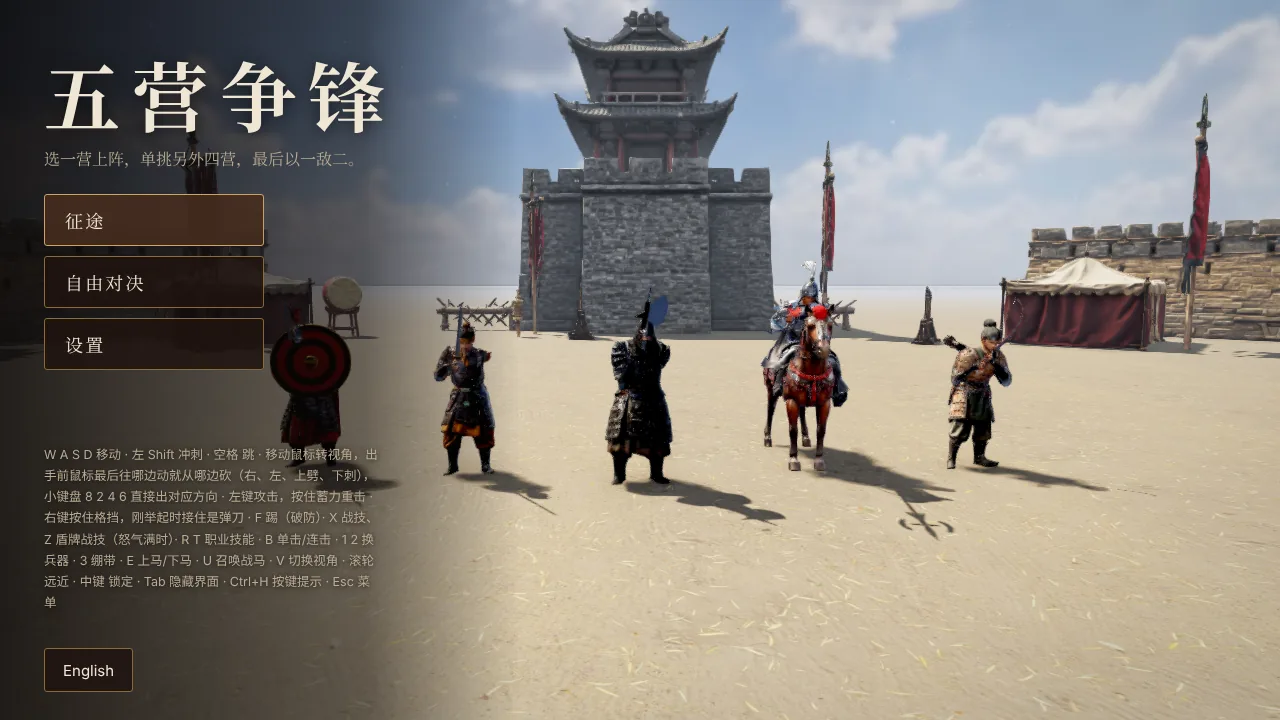
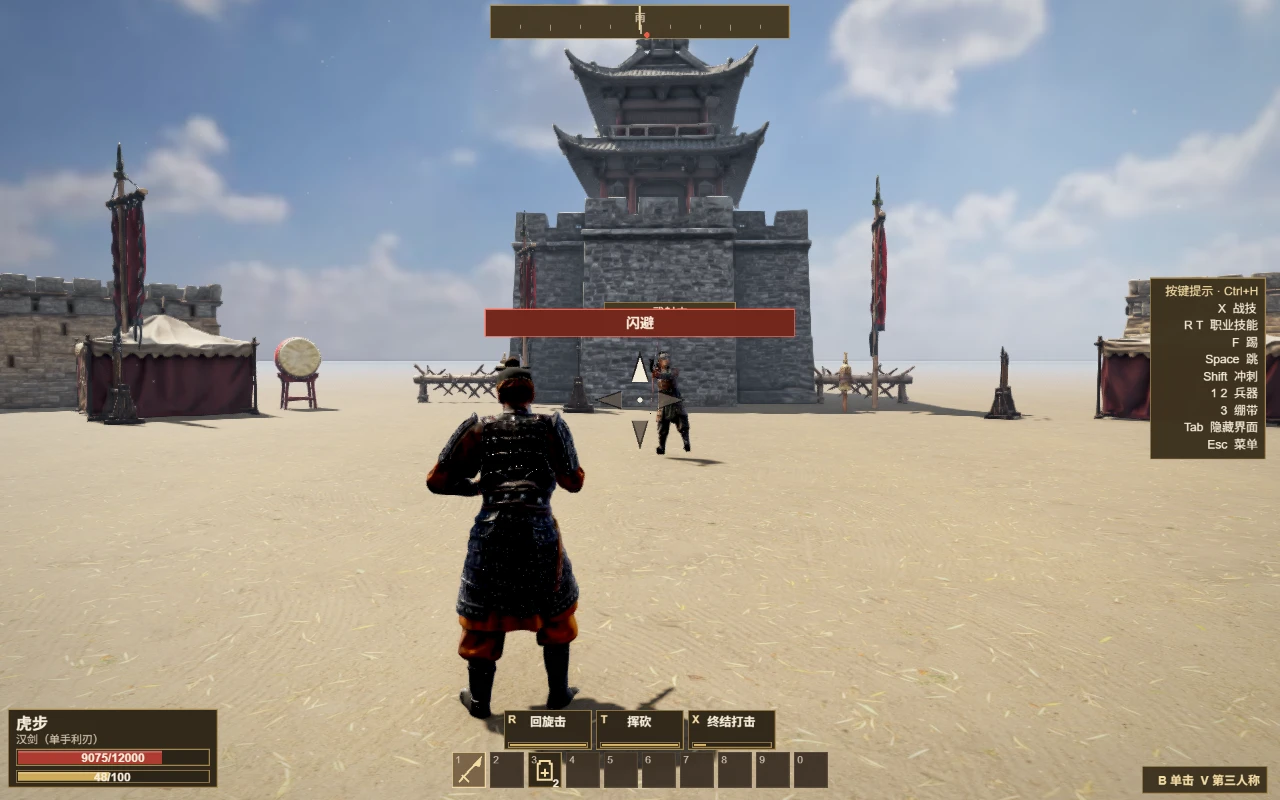
Showcase FiveRegiments native UI and verified captures

diff --git a/showcase/games.js b/showcase/games.js
@@ -83,14 +83,19 @@ export const GAMES = [
   {
     id: 'regiments', folder: 'FiveRegiments', kind: '3d',
     scenes: [
-      { zh: "王城宫前 · 黄昏以一敌二：陷阵营抡起长斧，迎着骑马冲来的银翎卫，武射史在后", en: "Before the palace · One against two at dusk: the Berserker Battalion raises his long axe at the charging Silver Wing Guard, the Archer behind" },
-      { zh: "竹林古道 · 薄雾里银翎卫骑马冲向武射史", en: "Bamboo path · The Silver Wing Guard rides at the Archer through the mist" },
-      { zh: "卷首 · 五营列阵县城校场", en: "Title · The five regiments drawn up on the county drill ground" },
+      { zh: "卷首 · 五营挺拔列阵与漆木铜饰原生菜单", en: "Title · Five upright regiments and the native lacquer-and-bronze menu" },
+      { zh: "竹林古道 · 雾、竹影与原生战斗 HUD", en: "Bamboo path · Layered fog, bamboo shadows and the native combat HUD" },
+      { zh: "县城校场 · PC 实机战斗画面", en: "County drill ground · Live PC combat view" },
     ],
     zh: "五营争锋", en: "Five Regiments",
     genre: { zh: "第三人称冷兵器对决", en: "Third-person cold-steel duels" },
     summary: { zh: "从羽林卫、虎步、陷阵营、银翎卫、武射史里选一营，技能、天赋、战技和生命值按原作的公告与物品面板，伤害公式按武器和护甲面板推算，一刀一成血、打得有来有回。在校场、桃林、竹林、雪原单挑另外四营，最后在王城宫前以一敌二；银翎卫骑马作战、马上架枪。", en: "Choose one of five regiments; skills, talents, weapon arts and health follow the original's notes and item cards, and a damage formula worked out from the weapon and armour cards makes each blow take about a tenth of a man's health, so fights go back and forth. Beat the other four, then two at once before the palace; the Silver Wing Guard fights from the saddle and couches his ji." },
     features: [
+      {
+        title: { zh: "World3D 原生界面与输入", en: "Native Play interface over World3D" },
+        description: { zh: "透明原生 UI 与 3D 共用帧时钟，具名控件和多屏布局支持键鼠、触屏及手柄输入。", en: "Transparent native UI and 3D share a frame clock; named controls and screen-aware layouts support mouse, keys, touch and gamepad." },
+        source: 'src/screens.mjs',
+      },
       {
         title: { zh: "动作捕捉与反向动力学", en: "Motion capture and inverse kinematics" },
         description: { zh: "每帧把动作捕捉姿态写进骨骼，再叠加反向动力学和腰身扭转；骑手按战马脊骨的位置坐稳。", en: "Each frame the captured pose goes into the bones with inverse kinematics and a waist twist on top; riders sit where the horse’s spine puts the saddle." },
@@ -105,11 +110,6 @@ export const GAMES = [
         title: { zh: "刀光、火花与动态几何", en: "Blade trails, sparks and live geometry" },
         description: { zh: "刀光拖尾和剑气是每帧改写的动态几何；火花、血雾、落花和飘雪由 CPU 与 GPU 粒子发出。", en: "Blade trails and flying cuts are geometry rewritten every frame; sparks, blood mist, petals and snow come from CPU and GPU particles." },
         source: 'src/view/effects.mjs',
-      },
-      {
-        title: { zh: "读刀的对战规则", en: "Fight rules that read the blade" },
-        description: { zh: "刀路、格挡和伤害公式独立于画面，电脑对手按你出刀的方向应对。", en: "Lines of attack, guards and the damage formula live apart from the picture, and the computer answers the line you cut along." },
-        source: 'src/sim/fight.mjs',
       },
       {
         title: { zh: "三档 glTF 模型", en: "glTF models in three sets" },

diff --git a/showcase/capabilities.js b/showcase/capabilities.js
@@ -42,6 +42,10 @@ export const MATRIX = {
      "file": "FivePhases/src/main.mjs"
     },
     {
+     "game": "FiveRegiments",
+     "file": "FiveRegiments/src/hud.mjs"
+    },
+    {
      "game": "InquestScrolls",
      "file": "InquestScrolls/src/view/pictures.mjs"
     },
@@ -367,6 +371,10 @@ export const MATRIX = {
    "label": "@egret/engine/ui",
    "games": [
     {
+     "game": "FiveRegiments",
+     "file": "FiveRegiments/src/hud.mjs"
+    },
+    {
      "game": "FPS",
      "file": "FPS/src/ui/hud.mjs"
     },
@@ -453,6 +461,10 @@ export const MATRIX = {
      "file": "FivePhases/src/ui/hud.mjs"
     },
     {
+     "game": "FiveRegiments",
+     "file": "FiveRegiments/src/screens.mjs"
+    },
+    {
      "game": "InquestScrolls",
      "file": "InquestScrolls/src/view/type.mjs"
     },
@@ -482,6 +494,10 @@ export const MATRIX = {
     {
      "game": "FivePhases",
      "file": "FivePhases/src/ui/hud.mjs"
+    },
+    {
+     "game": "FiveRegiments",
+     "file": "FiveRegiments/src/screens.mjs"
     },
     {
      "game": "InquestScrolls",
@@ -1106,6 +1122,10 @@ export const MATRIX = {
      "file": "FivePhases/src/main.mjs"
     },
     {
+     "game": "FiveRegiments",
+     "file": "FiveRegiments/src/main.mjs"
+    },
+    {
      "game": "FPS",
      "file": "FPS/src/main.mjs"
     },
@@ -1193,6 +1213,10 @@ export const MATRIX = {
      "file": "FivePhases/src/main.mjs"
     },
     {
+     "game": "FiveRegiments",
+     "file": "FiveRegiments/src/main.mjs"
+    },
+    {
      "game": "FPS",
      "file": "FPS/src/main.mjs"
     },
@@ -1250,6 +1274,10 @@ export const MATRIX = {
     {
      "game": "FivePhases",
      "file": "FivePhases/src/main.mjs"
+    },
+    {
+     "game": "FiveRegiments",
+     "file": "FiveRegiments/src/main.mjs"
     },
     {
      "game": "FPS",

diff --git a/CAPABILITIES.md b/CAPABILITIES.md
@@ -12,7 +12,7 @@ used or not; only each game's own code is read, not `vendor/`, tests or tools. T
 
 | 能力 · Capability | 游戏数 · Games | CanalWatch | FengshenChronicle | FivePhases | FiveRegiments | FPS | InquestScrolls | jelly-pandas | JY | LanternShadows | LoveElective | LubanBridge | MechanismCity | NezhaSea | NightWardens | NineProvinces | OperaDrums | PeachCreek | Rally | SandScroll | SnowTemple | StarBanner | TaiwanMahjong | TeaHorseRoad | Wulin |
 |---|:-:|:-:|:-:|:-:|:-:|:-:|:-:|:-:|:-:|:-:|:-:|:-:|:-:|:-:|:-:|:-:|:-:|:-:|:-:|:-:|:-:|:-:|:-:|:-:|:-:|
-| `@egret/engine` | 20 |  | [✔](FengshenChronicle/src/view.mjs) | [✔](FivePhases/src/main.mjs) |  |  | [✔](InquestScrolls/src/view/pictures.mjs) | [✔](jelly-pandas/src/hud.mjs) | [✔](JY/web/main.mjs) | [✔](LanternShadows/src/main.mjs) | [✔](LoveElective/src/engine/stage.mjs) | [✔](LubanBridge/src/view/paint.mjs) | [✔](MechanismCity/src/art/illustrations.mjs) | [✔](NezhaSea/src/actor-art.mjs) | [✔](NightWardens/src/screens.mjs) | [✔](NineProvinces/src/ui/native-minimap.mjs) |  | [✔](PeachCreek/src/inspector.mjs) | [✔](Rally/src/main.mjs) | [✔](SandScroll/src/screens.mjs) | [✔](SnowTemple/src/main.mjs) | [✔](StarBanner/src/hud.mjs) | [✔](TaiwanMahjong/src/hud.mjs) | [✔](TeaHorseRoad/src/ui/card.mjs) | [✔](Wulin/src/view/stage.mjs) |
+| `@egret/engine` | 21 |  | [✔](FengshenChronicle/src/view.mjs) | [✔](FivePhases/src/main.mjs) | [✔](FiveRegiments/src/hud.mjs) |  | [✔](InquestScrolls/src/view/pictures.mjs) | [✔](jelly-pandas/src/hud.mjs) | [✔](JY/web/main.mjs) | [✔](LanternShadows/src/main.mjs) | [✔](LoveElective/src/engine/stage.mjs) | [✔](LubanBridge/src/view/paint.mjs) | [✔](MechanismCity/src/art/illustrations.mjs) | [✔](NezhaSea/src/actor-art.mjs) | [✔](NightWardens/src/screens.mjs) | [✔](NineProvinces/src/ui/native-minimap.mjs) |  | [✔](PeachCreek/src/inspector.mjs) | [✔](Rally/src/main.mjs) | [✔](SandScroll/src/screens.mjs) | [✔](SnowTemple/src/main.mjs) | [✔](StarBanner/src/hud.mjs) | [✔](TaiwanMahjong/src/hud.mjs) | [✔](TeaHorseRoad/src/ui/card.mjs) | [✔](Wulin/src/view/stage.mjs) |
 | `@egret/engine/webgpu` | 0 |  |  |  |  |  |  |  |  |  |  |  |  |  |  |  |  |  |  |  |  |  |  |  |  |
 | `@egret/engine/text` | 1 |  |  |  |  |  |  |  | [✔](JY/web/opening-dialogue.mjs) |  |  |  |  |  |  |  |  |  |  |  |  |  |  |  |  |
 | `@egret/engine/layout` | 2 |  |  |  |  |  | [✔](InquestScrolls/src/view/dossier.mjs) |  |  |  |  |  |  |  | [✔](NightWardens/src/screens.mjs) |  |  |  |  |  |  |  |  |  |  |
@@ -29,10 +29,10 @@ used or not; only each game's own code is read, not `vendor/`, tests or tools. T
 | `@egret/engine/web/gestures` | 2 |  |  |  |  |  |  |  |  |  |  | [✔](LubanBridge/src/view/build.mjs) |  |  |  | [✔](NineProvinces/src/view3d/realm.mjs) |  |  |  |  |  |  |  |  |  |
 | `@egret/engine/web/view` | 2 |  |  |  |  |  |  |  |  |  |  | [✔](LubanBridge/src/view/screens.mjs) |  |  |  |  |  |  |  |  |  |  | [✔](TaiwanMahjong/src/ui.mjs) |  |  |
 | `@egret/engine/web/pointer` | 0 |  |  |  |  |  |  |  |  |  |  |  |  |  |  |  |  |  |  |  |  |  |  |  |  |
-| `@egret/engine/ui` | 15 |  |  |  |  | [✔](FPS/src/ui/hud.mjs) |  | [✔](jelly-pandas/src/ui/menus.mjs) |  |  | [✔](LoveElective/src/engine/ui.mjs) |  | [✔](MechanismCity/src/screens.mjs) | [✔](NezhaSea/src/main.mjs) | [✔](NightWardens/src/screens.mjs) | [✔](NineProvinces/src/ui/native-dialogs.mjs) | [✔](OperaDrums/src/ui/screens.mjs) | [✔](PeachCreek/src/main.mjs) | [✔](Rally/src/ui/kit.mjs) | [✔](SandScroll/src/ui/kit.mjs) | [✔](SnowTemple/src/ui/combat-hud.mjs) | [✔](StarBanner/src/ui/kit.mjs) |  | [✔](TeaHorseRoad/src/ui/card.mjs) | [✔](Wulin/src/ui/native-shell.mjs) |
+| `@egret/engine/ui` | 16 |  |  |  | [✔](FiveRegiments/src/hud.mjs) | [✔](FPS/src/ui/hud.mjs) |  | [✔](jelly-pandas/src/ui/menus.mjs) |  |  | [✔](LoveElective/src/engine/ui.mjs) |  | [✔](MechanismCity/src/screens.mjs) | [✔](NezhaSea/src/main.mjs) | [✔](NightWardens/src/screens.mjs) | [✔](NineProvinces/src/ui/native-dialogs.mjs) | [✔](OperaDrums/src/ui/screens.mjs) | [✔](PeachCreek/src/main.mjs) | [✔](Rally/src/ui/kit.mjs) | [✔](SandScroll/src/ui/kit.mjs) | [✔](SnowTemple/src/ui/combat-hud.mjs) | [✔](StarBanner/src/ui/kit.mjs) |  | [✔](TeaHorseRoad/src/ui/card.mjs) | [✔](Wulin/src/ui/native-shell.mjs) |
 | `@egret/engine/animation` | 1 |  |  |  |  |  |  |  |  |  |  |  |  |  | [✔](NightWardens/src/view/field.mjs) |  |  |  |  |  |  |  |  |  |  |
-| `@egret/engine/paragraph` | 6 |  | [✔](FengshenChronicle/src/native-rpg-ui.mjs) | [✔](FivePhases/src/ui/hud.mjs) |  |  | [✔](InquestScrolls/src/view/type.mjs) |  |  | [✔](LanternShadows/src/native-ui.mjs) |  |  |  |  |  | [✔](NineProvinces/src/view3d/native-host.mjs) |  |  |  |  |  |  |  |  | [✔](Wulin/src/ui/native-shell.mjs) |
-| `@egret/engine/web/paragraph` | 6 |  | [✔](FengshenChronicle/src/native-rpg-ui.mjs) | [✔](FivePhases/src/ui/hud.mjs) |  |  | [✔](InquestScrolls/src/view/type.mjs) |  |  | [✔](LanternShadows/src/native-ui.mjs) |  |  |  |  |  | [✔](NineProvinces/src/view3d/native-host.mjs) |  |  |  |  |  |  |  |  | [✔](Wulin/src/ui/native-shell.mjs) |
+| `@egret/engine/paragraph` | 7 |  | [✔](FengshenChronicle/src/native-rpg-ui.mjs) | [✔](FivePhases/src/ui/hud.mjs) | [✔](FiveRegiments/src/screens.mjs) |  | [✔](InquestScrolls/src/view/type.mjs) |  |  | [✔](LanternShadows/src/native-ui.mjs) |  |  |  |  |  | [✔](NineProvinces/src/view3d/native-host.mjs) |  |  |  |  |  |  |  |  | [✔](Wulin/src/ui/native-shell.mjs) |
+| `@egret/engine/web/paragraph` | 7 |  | [✔](FengshenChronicle/src/native-rpg-ui.mjs) | [✔](FivePhases/src/ui/hud.mjs) | [✔](FiveRegiments/src/screens.mjs) |  | [✔](InquestScrolls/src/view/type.mjs) |  |  | [✔](LanternShadows/src/native-ui.mjs) |  |  |  |  |  | [✔](NineProvinces/src/view3d/native-host.mjs) |  |  |  |  |  |  |  |  | [✔](Wulin/src/ui/native-shell.mjs) |
 | `@egret/engine/web/keyboard` | 1 |  |  |  |  |  |  |  | [✔](JY/web/main.mjs) |  |  |  |  |  |  |  |  |  |  |  |  |  |  |  |  |
 | `@egret/engine/web/text-input` | 1 |  |  |  |  |  | [✔](InquestScrolls/src/view/verdict.mjs) |  |  |  |  |  |  |  |  |  |  |  |  |  |  |  |  |  |  |
 | `@egret/engine/web/wechat-text-input` | 0 |  |  |  |  |  |  |  |  |  |  |  |  |  |  |  |  |  |  |  |  |  |  |  |  |
@@ -57,9 +57,9 @@ used or not; only each game's own code is read, not `vendor/`, tests or tools. T
 | `@egret/engine/play` | 12 | [✔](CanalWatch/src/main.mjs) | [✔](FengshenChronicle/src/native-rpg-ui.mjs) | [✔](FivePhases/src/main.mjs) |  |  | [✔](InquestScrolls/src/main.mjs) |  |  | [✔](LanternShadows/src/main.mjs) | [✔](LoveElective/src/engine/stage.mjs) | [✔](LubanBridge/src/main.mjs) |  | [✔](NezhaSea/src/main.mjs) |  |  | [✔](OperaDrums/src/main.mjs) | [✔](PeachCreek/src/main.mjs) |  |  |  |  | [✔](TaiwanMahjong/src/sound.mjs) |  | [✔](Wulin/src/main.mjs) |
 | `@egret/engine/audio` | 2 |  |  |  |  |  |  |  |  |  |  | [✔](LubanBridge/src/audio/sound.mjs) |  |  | [✔](NightWardens/src/audio/sound.mjs) |  |  |  |  |  |  |  |  |  |  |
 | `@egret/engine/web/audio` | 14 |  |  |  | [✔](FiveRegiments/src/audio.mjs) | [✔](FPS/src/audio.mjs) | [✔](InquestScrolls/src/audio/sound.mjs) |  | [✔](JY/web/wav-effects.mjs) | [✔](LanternShadows/src/sound.mjs) | [✔](LoveElective/src/audio.mjs) | [✔](LubanBridge/src/audio/sound.mjs) | [✔](MechanismCity/src/audio/sound.mjs) |  | [✔](NightWardens/src/audio/sound.mjs) | [✔](NineProvinces/src/audio/sound.mjs) | [✔](OperaDrums/src/audio/sound.mjs) |  |  | [✔](SandScroll/src/audio/sound.mjs) |  | [✔](StarBanner/src/audio/sound.mjs) |  |  | [✔](Wulin/src/main.mjs) |
-| `@egret/engine/ui/semantics` | 22 | [✔](CanalWatch/src/main.mjs) | [✔](FengshenChronicle/src/native-rpg-ui.mjs) | [✔](FivePhases/src/main.mjs) |  | [✔](FPS/src/main.mjs) | [✔](InquestScrolls/src/main.mjs) | [✔](jelly-pandas/src/hud.mjs) |  | [✔](LanternShadows/src/main.mjs) | [✔](LoveElective/src/engine/stage.mjs) | [✔](LubanBridge/src/view/kit.mjs) | [✔](MechanismCity/src/main.mjs) | [✔](NezhaSea/src/ui-input.mjs) | [✔](NightWardens/src/main.mjs) | [✔](NineProvinces/src/view3d/native-host.mjs) | [✔](OperaDrums/src/main.mjs) | [✔](PeachCreek/src/main.mjs) | [✔](Rally/src/ui/host.mjs) | [✔](SandScroll/src/main.mjs) | [✔](SnowTemple/src/ui/combat-hud.mjs) | [✔](StarBanner/src/hud.mjs) | [✔](TaiwanMahjong/src/main.mjs) | [✔](TeaHorseRoad/src/main.mjs) | [✔](Wulin/src/main.mjs) |
-| `@egret/engine/ui/testing` | 11 |  |  | [✔](FivePhases/src/main.mjs) |  | [✔](FPS/src/main.mjs) |  | [✔](jelly-pandas/src/hud.mjs) |  | [✔](LanternShadows/src/main.mjs) |  | [✔](LubanBridge/src/check.mjs) |  | [✔](NezhaSea/src/main.mjs) |  | [✔](NineProvinces/src/view3d/native-host.mjs) |  |  | [✔](Rally/src/ui/host.mjs) |  | [✔](SnowTemple/src/ui/host.mjs) | [✔](StarBanner/src/ui/host.mjs) |  |  | [✔](Wulin/src/main.mjs) |
-| `@egret/engine/web/semantics` | 22 | [✔](CanalWatch/src/main.mjs) | [✔](FengshenChronicle/src/native-rpg-ui.mjs) | [✔](FivePhases/src/main.mjs) |  | [✔](FPS/src/main.mjs) | [✔](InquestScrolls/src/main.mjs) | [✔](jelly-pandas/src/hud.mjs) |  | [✔](LanternShadows/src/main.mjs) | [✔](LoveElective/src/engine/ui.mjs) | [✔](LubanBridge/src/view/kit.mjs) | [✔](MechanismCity/src/main.mjs) | [✔](NezhaSea/src/ui-input.mjs) | [✔](NightWardens/src/main.mjs) | [✔](NineProvinces/src/view3d/native-host.mjs) | [✔](OperaDrums/src/main.mjs) | [✔](PeachCreek/src/main.mjs) | [✔](Rally/src/ui/host.mjs) | [✔](SandScroll/src/main.mjs) | [✔](SnowTemple/src/ui/host.mjs) | [✔](StarBanner/src/ui/host.mjs) | [✔](TaiwanMahjong/src/main.mjs) | [✔](TeaHorseRoad/src/main.mjs) | [✔](Wulin/src/main.mjs) |
+| `@egret/engine/ui/semantics` | 23 | [✔](CanalWatch/src/main.mjs) | [✔](FengshenChronicle/src/native-rpg-ui.mjs) | [✔](FivePhases/src/main.mjs) | [✔](FiveRegiments/src/main.mjs) | [✔](FPS/src/main.mjs) | [✔](InquestScrolls/src/main.mjs) | [✔](jelly-pandas/src/hud.mjs) |  | [✔](LanternShadows/src/main.mjs) | [✔](LoveElective/src/engine/stage.mjs) | [✔](LubanBridge/src/view/kit.mjs) | [✔](MechanismCity/src/main.mjs) | [✔](NezhaSea/src/ui-input.mjs) | [✔](NightWardens/src/main.mjs) | [✔](NineProvinces/src/view3d/native-host.mjs) | [✔](OperaDrums/src/main.mjs) | [✔](PeachCreek/src/main.mjs) | [✔](Rally/src/ui/host.mjs) | [✔](SandScroll/src/main.mjs) | [✔](SnowTemple/src/ui/combat-hud.mjs) | [✔](StarBanner/src/hud.mjs) | [✔](TaiwanMahjong/src/main.mjs) | [✔](TeaHorseRoad/src/main.mjs) | [✔](Wulin/src/main.mjs) |
+| `@egret/engine/ui/testing` | 12 |  |  | [✔](FivePhases/src/main.mjs) | [✔](FiveRegiments/src/main.mjs) | [✔](FPS/src/main.mjs) |  | [✔](jelly-pandas/src/hud.mjs) |  | [✔](LanternShadows/src/main.mjs) |  | [✔](LubanBridge/src/check.mjs) |  | [✔](NezhaSea/src/main.mjs) |  | [✔](NineProvinces/src/view3d/native-host.mjs) |  |  | [✔](Rally/src/ui/host.mjs) |  | [✔](SnowTemple/src/ui/host.mjs) | [✔](StarBanner/src/ui/host.mjs) |  |  | [✔](Wulin/src/main.mjs) |
+| `@egret/engine/web/semantics` | 23 | [✔](CanalWatch/src/main.mjs) | [✔](FengshenChronicle/src/native-rpg-ui.mjs) | [✔](FivePhases/src/main.mjs) | [✔](FiveRegiments/src/main.mjs) | [✔](FPS/src/main.mjs) | [✔](InquestScrolls/src/main.mjs) | [✔](jelly-pandas/src/hud.mjs) |  | [✔](LanternShadows/src/main.mjs) | [✔](LoveElective/src/engine/ui.mjs) | [✔](LubanBridge/src/view/kit.mjs) | [✔](MechanismCity/src/main.mjs) | [✔](NezhaSea/src/ui-input.mjs) | [✔](NightWardens/src/main.mjs) | [✔](NineProvinces/src/view3d/native-host.mjs) | [✔](OperaDrums/src/main.mjs) | [✔](PeachCreek/src/main.mjs) | [✔](Rally/src/ui/host.mjs) | [✔](SandScroll/src/main.mjs) | [✔](SnowTemple/src/ui/host.mjs) | [✔](StarBanner/src/ui/host.mjs) | [✔](TaiwanMahjong/src/main.mjs) | [✔](TeaHorseRoad/src/main.mjs) | [✔](Wulin/src/main.mjs) |
 | `@egret/spine` | 1 |  |  |  |  |  |  |  |  | [✔](LanternShadows/src/puppets.mjs) |  |  |  |  |  |  |  |  |  |  |  |  |  |  |  |
 | `@egret/spine/web` | 0 |  |  |  |  |  |  |  |  |  |  |  |  |  |  |  |  |  |  |  |  |  |  |  |  |
 | `@egret/contracts/resources` | 2 |  |  |  |  |  | [✔](InquestScrolls/src/view/type.mjs) |  |  | [✔](LanternShadows/src/puppets.mjs) |  |  |  |  |  |  |  |  |  |  |  |  |  |  |  |

diff --git a/docs/DUPLICATION.md b/docs/DUPLICATION.md
@@ -4,9 +4,9 @@
 
 Made by `node tools/duplication.mjs --write` from the `src/` of every game; do not edit by hand, and `--check` says whether it is out of date. Code three or more games each wrote belongs in the engine's kit or in the template; "Engine has" names what can replace it.
 
-24 个游戏，4673 段至少 40 个词元的顶层代码。名字、数字和字符串都换成同一个记号后，连续 8 个词元的 Jaccard 指数不小于 0.6 就算相同。
+24 个游戏，4711 段至少 40 个词元的顶层代码。名字、数字和字符串都换成同一个记号后，连续 8 个词元的 Jaccard 指数不小于 0.6 就算相同。
 
-24 games, 4673 top-level units of at least 40 tokens. With every name, number and string made one token, two units are alike when the Jaccard index of their runs of 8 tokens is 0.6 or more.
+24 games, 4711 top-level units of at least 40 tokens. With every name, number and string made one token, two units are alike when the Jaccard index of their runs of 8 tokens is 0.6 or more.
 
 ## 1. 3 个以上游戏写了几乎相同的代码 · Code that 3 or more games wrote nearly alike
 
@@ -32,16 +32,16 @@ One name is not always one piece of code: games write an `update` or a `draw` of
 | `createHud` | 11 | – | FivePhases, FiveRegiments, MechanismCity, NezhaSea, NineProvinces, Rally, SnowTemple, StarBanner, TaiwanMahjong, TeaHorseRoad, jelly-pandas |
 | `createView` | 10 | – | CanalWatch, FPS, FengshenChronicle, NezhaSea, OperaDrums, PeachCreek, Rally, SnowTemple, TaiwanMahjong, jelly-pandas |
 | `button` | 9 | – | CanalWatch, FPS, FivePhases, LanternShadows, NezhaSea, NineProvinces, PeachCreek, TaiwanMahjong, Wulin |
+| `C` | 9 | – | FPS, FivePhases, FiveRegiments, LanternShadows, LubanBridge, NineProvinces, OperaDrums, StarBanner, jelly-pandas |
 | `freshSave` | 9 | `createSaveStore` + `shapeOf` (@egret/engine/kit) | CanalWatch, LubanBridge, NezhaSea, NightWardens, OperaDrums, PeachCreek, SandScroll, StarBanner, TaiwanMahjong |
 | `mix` | 9 | – | FiveRegiments, LanternShadows, LoveElective, LubanBridge, NightWardens, NineProvinces, OperaDrums, SandScroll, Wulin |
 | `seeded` | 9 | `createRandom`, `hashSeed` (@egret/engine/kit) | CanalWatch, LoveElective, LubanBridge, MechanismCity, NezhaSea, OperaDrums, PeachCreek, TaiwanMahjong, TeaHorseRoad |
 | `settle` | 9 | – | FivePhases, FiveRegiments, MechanismCity, PeachCreek, SandScroll, SnowTemple, StarBanner, TeaHorseRoad, Wulin |
 | `SKIN` | 9 | – | CanalWatch, FPS, FivePhases, LanternShadows, LoveElective, NezhaSea, NineProvinces, OperaDrums, Wulin |
-| `C` | 8 | – | FPS, FivePhases, LanternShadows, LubanBridge, NineProvinces, OperaDrums, StarBanner, jelly-pandas |
+| `text` | 9 | – | CanalWatch, FPS, FiveRegiments, LanternShadows, NineProvinces, OperaDrums, PeachCreek, TaiwanMahjong, Wulin |
 | `EFFECTS` | 8 | – | CanalWatch, InquestScrolls, LoveElective, LubanBridge, MechanismCity, NineProvinces, StarBanner, TaiwanMahjong |
 | `finish` | 8 | – | CanalWatch, FivePhases, InquestScrolls, NezhaSea, OperaDrums, StarBanner, TeaHorseRoad, Wulin |
 | `panel` | 8 | – | CanalWatch, LubanBridge, NezhaSea, NineProvinces, PeachCreek, TaiwanMahjong, TeaHorseRoad, Wulin |
-| `text` | 8 | – | CanalWatch, FPS, LanternShadows, NineProvinces, OperaDrums, PeachCreek, TaiwanMahjong, Wulin |
 | `boot` | 7 | – | FengshenChronicle, FivePhases, NightWardens, NineProvinces, PeachCreek, SandScroll, TaiwanMahjong |
 | `createGame` | 7 | – | FPS, LoveElective, NineProvinces, SandScroll, SnowTemple, StarBanner, jelly-pandas |
 | `createInput` | 7 | – | FPS, FiveRegiments, LanternShadows, Rally, SnowTemple, StarBanner, jelly-pandas |
@@ -51,6 +51,7 @@ One name is not always one piece of code: games write an `update` or a `draw` of
 | `titleScreen` | 7 | – | InquestScrolls, LoveElective, LubanBridge, MechanismCity, NightWardens, SandScroll, TeaHorseRoad |
 | `tone` | 7 | `createAudioCues`, `encodeWav` (@egret/engine/kit) | FiveRegiments, MechanismCity, NightWardens, NineProvinces, PeachCreek, SandScroll, TeaHorseRoad |
 | `act` | 6 | – | CanalWatch, LoveElective, NineProvinces, OperaDrums, StarBanner, TaiwanMahjong |
+| `box` | 6 | – | CanalWatch, FPS, FivePhases, FiveRegiments, LanternShadows, TeaHorseRoad |
 | `createAudio` | 6 | – | FPS, FivePhases, LoveElective, Rally, SnowTemple, jelly-pandas |
 | `createScreens` | 6 | – | FiveRegiments, NezhaSea, OperaDrums, PeachCreek, StarBanner, TaiwanMahjong |
 | `pluck` | 6 | – | FiveRegiments, LubanBridge, MechanismCity, OperaDrums, SandScroll, TeaHorseRoad |
@@ -61,12 +62,13 @@ One name is not always one piece of code: games write an `update` or a `draw` of
 | `stroke` | 6 | – | CanalWatch, FPS, FengshenChronicle, LoveElective, SnowTemple, Wulin |
 | `wrap` | 6 | – | CanalWatch, InquestScrolls, LubanBridge, NezhaSea, Rally, SandScroll |
 | `backdrop` | 5 | – | InquestScrolls, MechanismCity, NightWardens, SandScroll, Wulin |
-| `box` | 5 | – | CanalWatch, FPS, FivePhases, LanternShadows, TeaHorseRoad |
 | `CUES` | 5 | `createAudioCues`, `encodeWav` (@egret/engine/kit) | FivePhases, NightWardens, OperaDrums, PeachCreek, Wulin |
 | `ellipse` | 5 | – | CanalWatch, FengshenChronicle, LoveElective, NightWardens, OperaDrums |
 | `ENEMIES` | 5 | – | FPS, FengshenChronicle, FivePhases, NezhaSea, jelly-pandas |
 | `pause` | 5 | – | LanternShadows, NezhaSea, Rally, TaiwanMahjong, TeaHorseRoad |
+| `polygon` | 5 | – | CanalWatch, FengshenChronicle, FiveRegiments, LubanBridge, PeachCreek |
 | `ring` | 5 | – | CanalWatch, FiveRegiments, NezhaSea, NineProvinces, TaiwanMahjong |
+| `row` | 5 | – | CanalWatch, FPS, FiveRegiments, NineProvinces, jelly-pandas |
 | `smooth` | 5 | – | FPS, LoveElective, NineProvinces, SnowTemple, jelly-pandas |
 | `strike` | 5 | – | FiveRegiments, NezhaSea, NightWardens, OperaDrums, Wulin |
 | `t` | 5 | `createTextTable`, `pickLanguage` (@egret/engine/kit) | FiveRegiments, NightWardens, NineProvinces, SandScroll, StarBanner |

diff --git a/docs/ENGINE-GAPS.md b/docs/ENGINE-GAPS.md
@@ -4,9 +4,9 @@
 
 Made by `node tools/engine-notes.mjs --write` from the ENGINE-NOTES of the games; do not edit by hand, and `--check` says whether it is out of date. What the engine resolved is copied from the engine's `guide/resolved.json` into [engine-resolved.json](engine-resolved.json) (15 entries). The form of a note is in part 3 of [GAME-STANDARD.md](GAME-STANDARD.md).
 
-24 个游戏、281 条笔记：未解决 76，部分解决 24，游戏侧绕过 18，已写入文档 42，已解决 121。
+24 个游戏、282 条笔记：未解决 77，部分解决 24，游戏侧绕过 18，已写入文档 42，已解决 121。
 
-281 notes from 24 games: 76 open, 24 partly resolved, 18 worked around in the game, 42 documented, 121 resolved.
+282 notes from 24 games: 77 open, 24 partly resolved, 18 worked around in the game, 42 documented, 121 resolved.
 
 ## 1. 引擎已经解决、游戏还标着未解决 · Resolved by the engine, still open in a game
 
@@ -90,6 +90,7 @@ Write the lesson as a card of the engine's guide (`guide/cards` in the engine re
 | `play-owned-canvas-fit` | FPS#8 自有 canvas 的 Play fit 不能自动扩展 · Play fit does not expand a caller-owned canvas | 部分解决 · partly |
 | `play-responsive-hold-controls` | FPS#9 Play 数据视图的连续设置与触控按钮 · Continuous settings and responsive touch buttons | 部分解决 · partly |
 | `play-startup-dependencies` | NezhaSea#13 静止视图重复提交，首屏依赖在后段串行加载 · Repeated static frames and late startup dependencies | 部分解决 · partly |
+| `pointer-lock-capture-transition` | FiveRegiments#7 指针锁定过渡与原生捕获 · Native capture during pointer-lock transition | 未解决 · open |
 | `prepare-programs-meshes` | JY#2 预编译着色器要求给出已经存在的网格 · Preparing programs needs meshes that already exist | 未解决 · open |
 | `radial-gradient-triangles` | MechanismCity#6 径向渐变的三角形很多 · Radial gradients cost many triangles | 未解决 · open |
 | `rapid-label-raster-supersession` | CanalWatch#8 快速变化文字的空白期 · Blank intervals in rapidly changing labels | 已在游戏侧绕过 · worked around |
@@ -144,7 +145,7 @@ Write the lesson as a card of the engine's guide (`guide/cards` in the engine re
 | [CanalWatch](../CanalWatch/ENGINE-NOTES.md) | 8 | 0 | 1 | 2 | 2 | 3 | 0 | `82561d6` |
 | [FengshenChronicle](../FengshenChronicle/ENGINE-NOTES.md) | 5 | 1 | 0 | 1 | 0 | 3 | 0 | `94bd70f` |
 | [FivePhases](../FivePhases/ENGINE-NOTES.md) | 7 | 1 | 1 | 0 | 0 | 5 | 0 | `82561d6` |
-| [FiveRegiments](../FiveRegiments/ENGINE-NOTES.md) | 6 | 6 | 0 | 0 | 0 | 0 | 0 | `82561d6` |
+| [FiveRegiments](../FiveRegiments/ENGINE-NOTES.md) | 7 | 7 | 0 | 0 | 0 | 0 | 0 | `7fb371a` |
 | [FPS](../FPS/ENGINE-NOTES.md) | 17 | 3 | 3 | 0 | 2 | 9 | 0 | `82561d6` |
 | [InquestScrolls](../InquestScrolls/ENGINE-NOTES.md) | 13 | 0 | 1 | 3 | 1 | 8 | 0 | `82561d6` |
 | [jelly-pandas](../jelly-pandas/ENGINE-NOTES.md) | 10 | 3 | 2 | 0 | 0 | 5 | 0 | `82561d6` |

diff --git a/FiveRegiments/UI-MIGRATION.md b/FiveRegiments/UI-MIGRATION.md
@@ -15,7 +15,7 @@
 The transparent Play interface is attached to the existing World3D renderer with `play3dAttached`, using a single active frame clock. The renderer retains quality presets, shadows, post-processing and dynamic resolution. Native views use expanded screen fit, portrait dimensions and bounded physical UI size without recreating the world.
 
 浏览器页面只承载画布、引擎语义树与启动失败前的文本。 / The page holds the canvases, engine-managed accessibility projection and pre-start fallback text only.
- 
+
 验收 / Verification: native menu/HUD semantics and layout tests; complete legacy browser flow 21/21 (including one and two opponents, loadout edits, save settings and both languages). Native pointer-lock and CDP touch acceptance also passed (browser automation, not physical phone). The original golden images were retained for the V2 gate; candidate images differed intentionally because of the UI replacement. Details of final visual reference changes and physical acceptance are below.
 
 ## V3 — 美术和画面 · Visual quality
